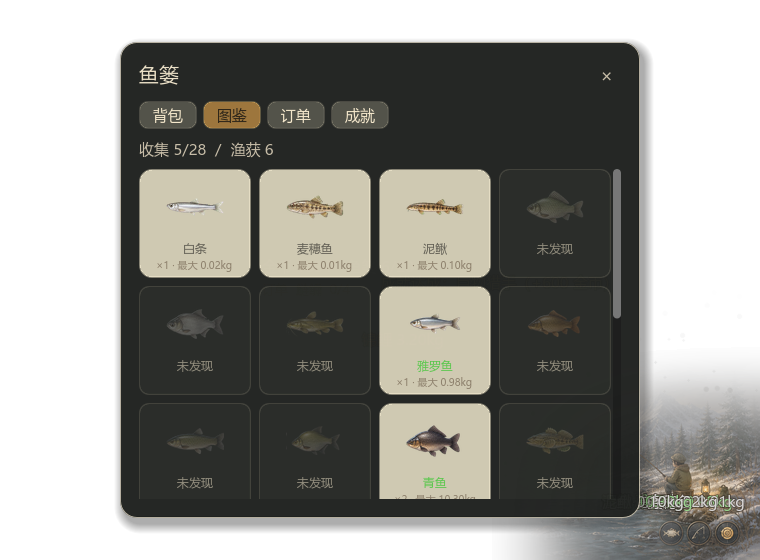
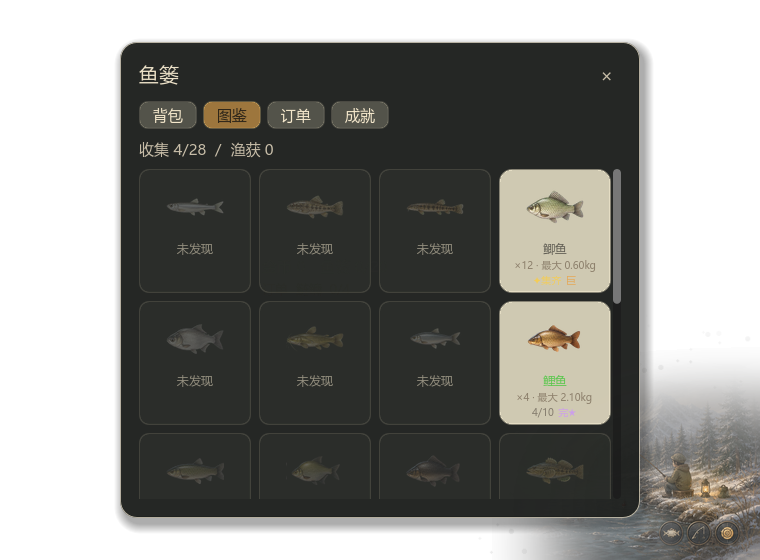
通宵③ 图鉴长期目标徽章
- 每种鱼图鉴卡新增徽章：集齐(✦集齐 / N/10 进度) · 巨物(巨) · 完美(完★)
- dex 条目扩为 {n,w,big,perf}；_dex_record 记录 per-鱼 巨物/完美；上鱼与离线均记录
- 存档 dex 升为 4 元组 [n,w,big01,perf01]，v4 旧 2 元组与 v1~v3 id 列表均无损迁移
- 卡片高度微调容纳徽章行，无溢出；回归含存档徽章往返用例，0 失败
- 借鉴 Chillquarium 收集深度 + Fisch 奖杯长期目标

diff --git a/docs/overnight-research-20260614.md b/docs/overnight-research-20260614.md
@@ -65,3 +65,10 @@
 6.（备选）**专注模式** —— Rusty's 式放慢+降干扰开关。
 
 每项：实现 → 无头回归 0 失败 → 截图验证 → 文档 → 独立 commit。存档结构变更必须带迁移与测试。
+
+## 完成记录（2026-06-14 夜）
+
+- ✅ 1. HUD 每日订单进度：金币行下方常驻「订单 鲢鳙 0/4」可点开订单页（4e6c8fd）
+- ✅ 2. 鱼篓排序/筛选：最新/价值/品阶/重量 + 订单鱼筛选（d263e15）
+- ✅ 3. 图鉴长期徽章：每种鱼 集齐10条/巨物/完美 徽章 + 进度，存档 v7（dex 4 元组，旧档迁移）
+